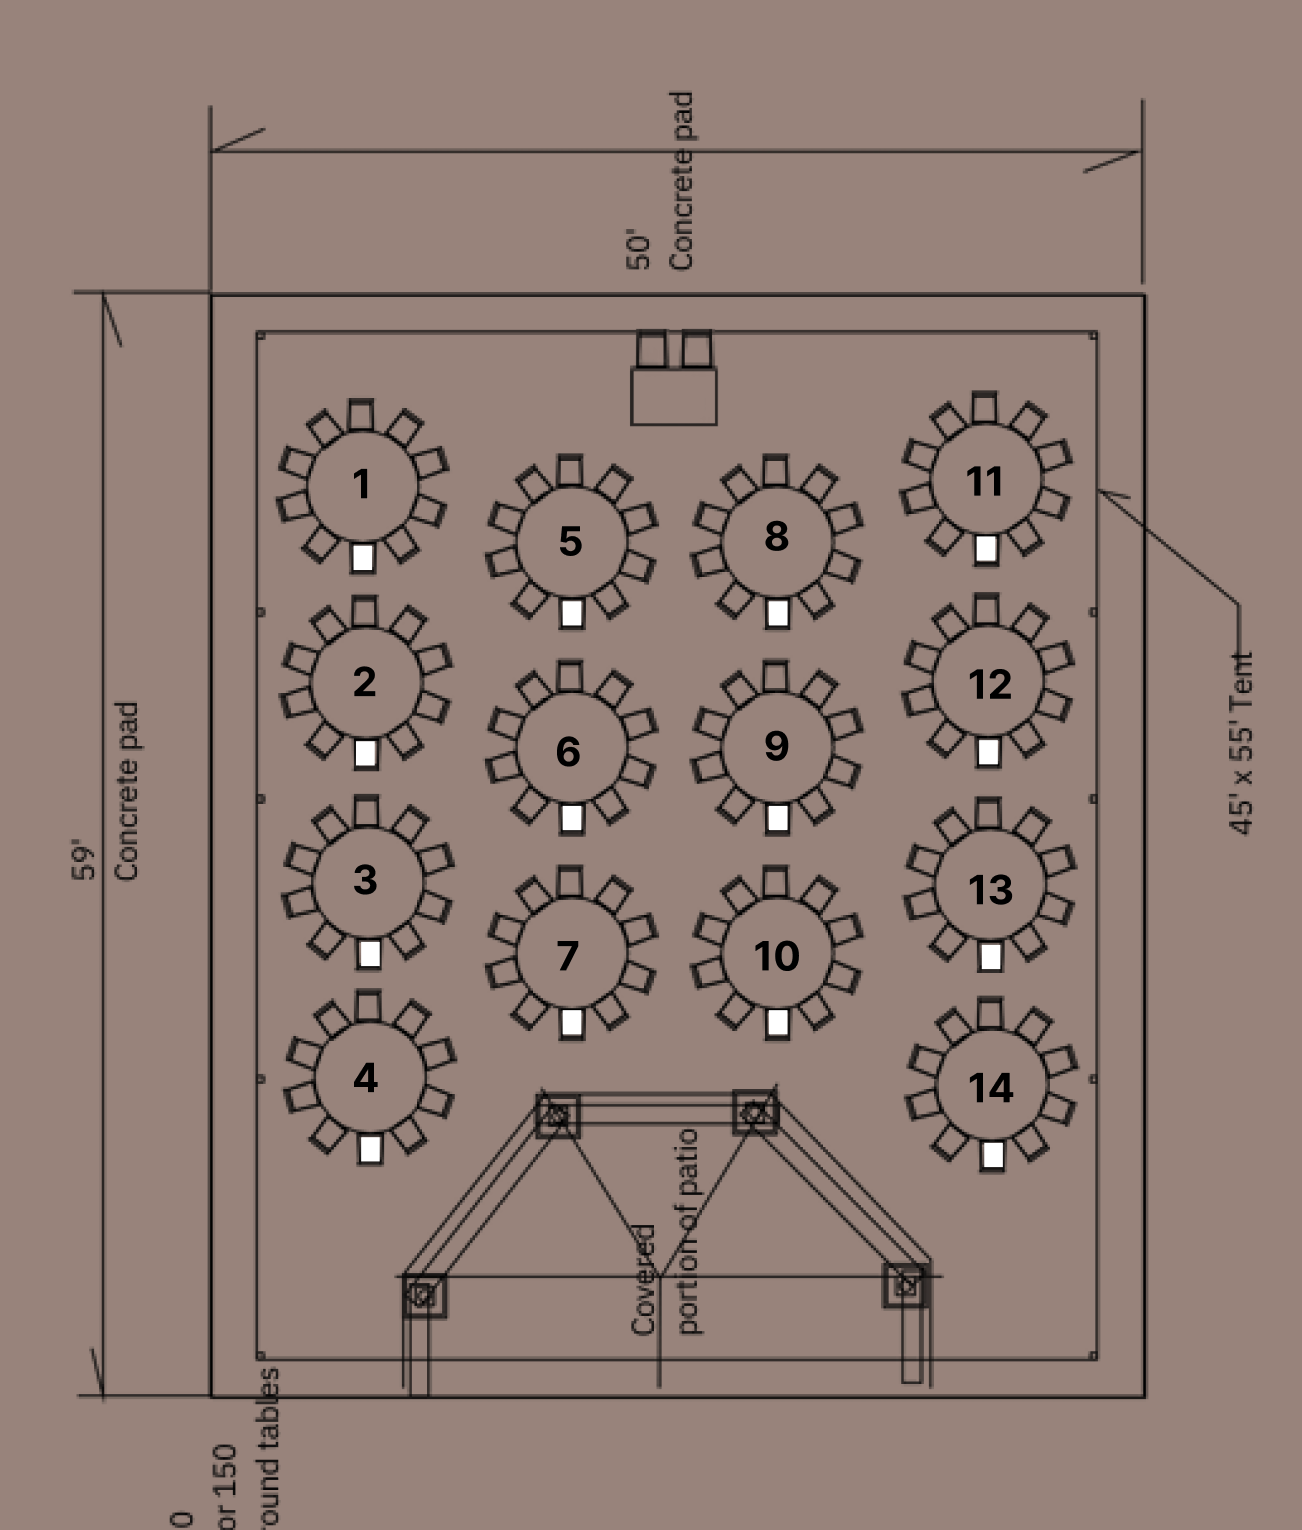
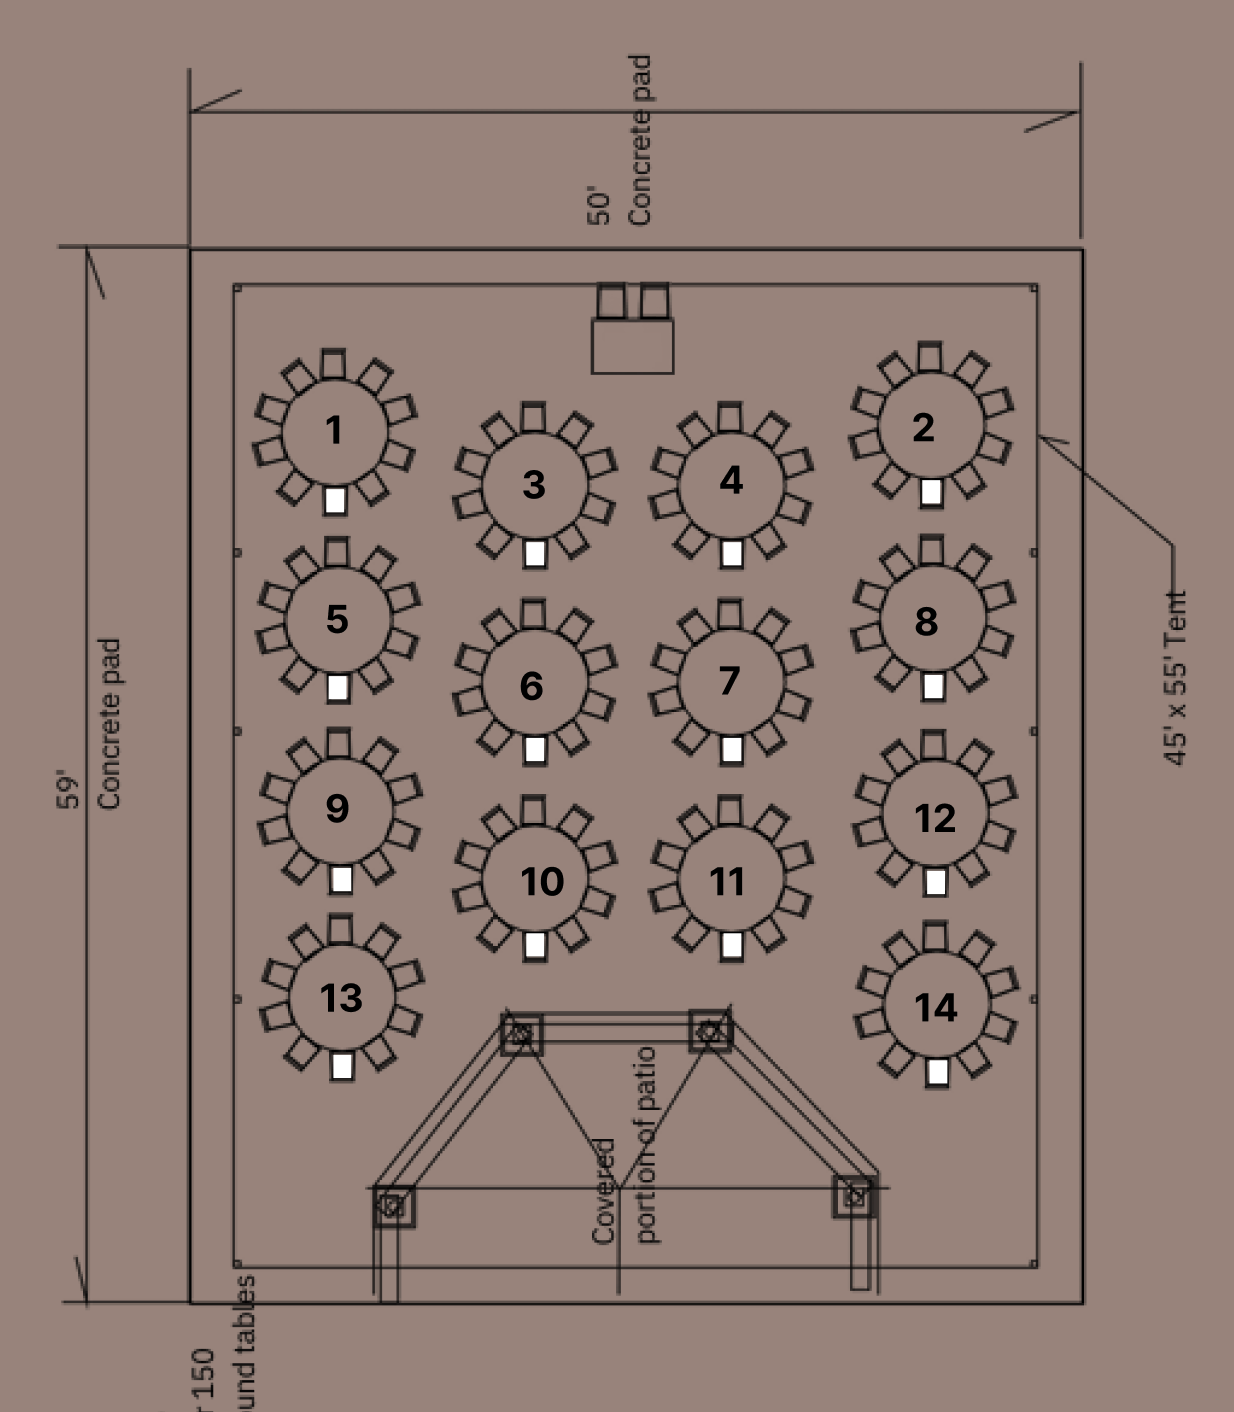
Update the reception floor plan to the renumbered tables
The plan was reissued with the same numbering as the Sep 5 seating chart. Every
table sits in the position it always did — the old plan's left column of 1, 2,
3, 4 is now 1, 5, 9, 13, and so on across all four columns — so this changes
the labels on the drawing, not where anything goes. The mapping matches the
chart's renumbering table for table, which is the check that nobody moved.

The alt text describes the new columns, since it names the tables one by one.

Changed region(s): [[0.0308, 0.0312, 0.9238, 1.0], [0.9238, 0.3739, 0.9854, 0.5609]]

diff --git a/index.html b/index.html
@@ -3329,7 +3329,7 @@ function renderFloorPlanCard(){
           </div>
         </div>
         <button class="plan-thumb" id="floorPlanThumb" aria-label="View the reception floor plan full screen">
-          <img src="${FLOOR_PLAN.src}" alt="Reception floor plan: 14 numbered round tables under a 45 by 55 foot tent on the 50 by 59 foot concrete pad. The head table is at the top centre, tables 1 to 4 down the left side, 5 to 7 in the next column, 8 to 10 in the column right of those, and 11 to 14 down the right side, with the covered portion of the patio along the bottom" loading="lazy">
+          <img src="${FLOOR_PLAN.src}" alt="Reception floor plan: 14 numbered round tables under a 45 by 55 foot tent on the 50 by 59 foot concrete pad. The head table is at the top centre, tables 1, 5, 9 and 13 down the left side, 3, 6 and 10 in the next column, 4, 7 and 11 in the column right of those, and 2, 8, 12 and 14 down the right side, with the covered portion of the patio along the bottom" loading="lazy">
         </button>
         <div class="plan-hint">Tap to view larger</div>
       </div>`;
